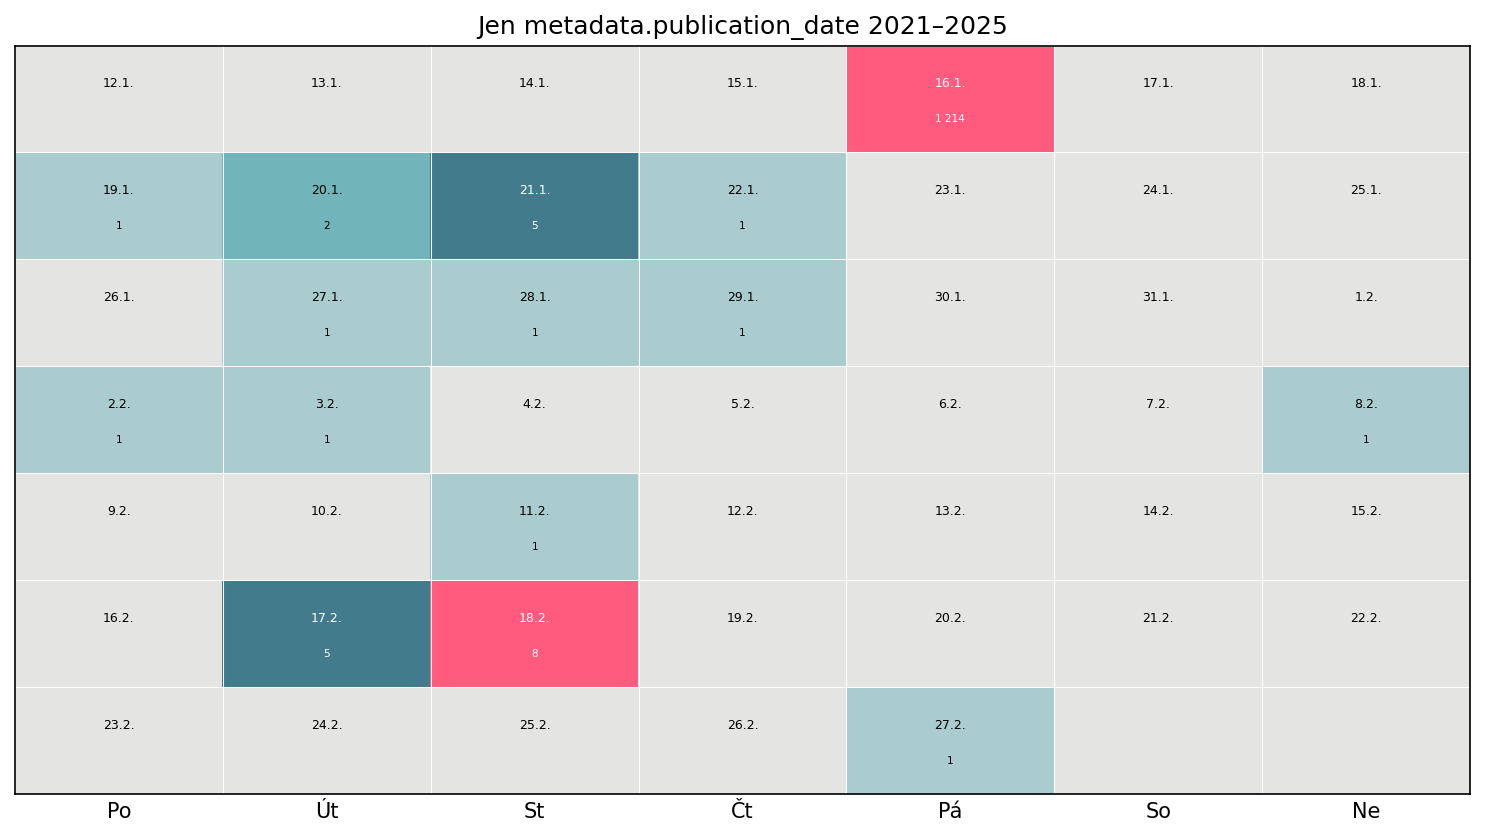
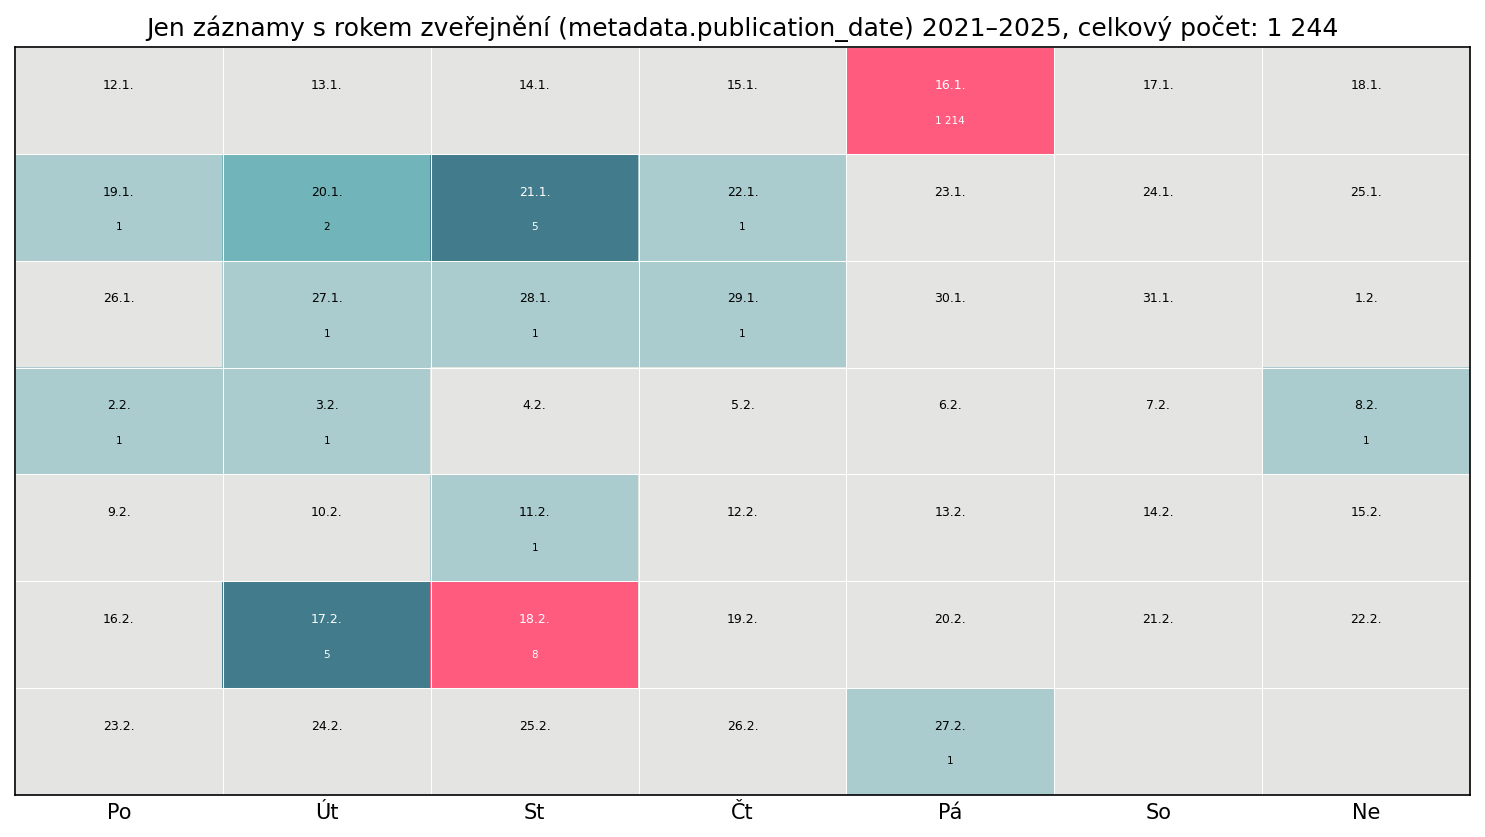
Update HTML output

diff --git a/docs/index.html b/docs/index.html
@@ -157,7 +157,7 @@
       Počty záznamů podle pole <code>created</code>, po dnech a týdnech.
     </p>
     <div class="meta">
-      Generováno: 2026-02-27 22:34:22 UTC<br>
+      Generováno: 2026-02-27 22:53:38 UTC<br>
       Rozsah dat: 2026-01-12 – 2026-02-27<br>
       Textové tabulky: od 2026-01-16
     </div>
@@ -169,7 +169,7 @@
     </div>
 
     <section class="calendar-section">
-  <h2>Všechny záznamy (pole created)</h2>
+  <h2>Všechny záznamy, celkový počet: 2 327</h2>
   <p class="hint">Kliknutím na den se otevře vyhledávání v NMA pro dané datum.</p>
   <div class="calendar-grid">
 <div class="dow">Po</div><div class="dow">Út</div><div class="dow">St</div><div class="dow">Čt</div><div class="dow">Pá</div><div class="dow">So</div><div class="dow">Ne</div>
@@ -179,7 +179,7 @@
 
 
     <section class="calendar-section">
-  <h2>Jen záznamy s metadata.publication_date v letech 2021–2025</h2>
+  <h2>Jen záznamy s rokem zveřejnění (metadata.publication_date) 2021–2025, celkový počet: 1 244</h2>
   <p class="hint">Kliknutím na den se otevře vyhledávání v NMA pro dané datum.</p>
   <div class="calendar-grid">
 <div class="dow">Po</div><div class="dow">Út</div><div class="dow">St</div><div class="dow">Čt</div><div class="dow">Pá</div><div class="dow">So</div><div class="dow">Ne</div>
@@ -191,8 +191,8 @@
     <section class="png-section">
   <h2>Obrázky ke stažení</h2>
   <ul>
-    <li><a href="calendar_created_all.png">PNG: všechny záznamy (created)</a></li>
-    <li><a href="calendar_created_pub_2021_2025.png">PNG: jen metadata.publication_date 2021–2025</a></li>
+      <li><a href="calendar_created_all.png">PNG: všechny záznamy (created)</a></li>
+      <li><a href="calendar_created_pub_2021_2025.png">PNG: jen metadata.publication_date 2021–2025</a></li>
   </ul>
 </section>
 

diff --git a/stats/created_calendar.py b/stats/created_calendar.py
@@ -7,13 +7,11 @@ from collections import Counter
 from datetime import date, datetime, timedelta
 from pathlib import Path
 from typing import Dict, Tuple
-
 from urllib.parse import quote
 
-import matplotlib.pyplot as plt
 import matplotlib.colors as mcolors
+import matplotlib.pyplot as plt
 import numpy as np
-
 
 # EOSC barvy
 EOSC_GREY = "#e4e4e3"
@@ -133,7 +131,6 @@ def compute_scale(
     vmin = min(vals)
     vmax = max(vals)
     if vmin == vmax:
-        # zabránit delení nulou; posunout trochu
         vmin = 0
         vmax = max(vmax, 1)
     return vmin, vmax
@@ -153,7 +150,6 @@ def color_for_value(value: int, vmin: int, vmax: int) -> str:
 def text_color_for_rgb(rgb: Tuple[int, int, int]) -> str:
     """Černý nebo bílý text podle jasu pozadí."""
     r, g, b = rgb
-    # jednoduchý luminance odhad
     luminance = 0.299 * r + 0.587 * g + 0.114 * b
     return "black" if luminance > 140 else "white"
 
@@ -191,20 +187,17 @@ def save_calendar_png(
     fig_height = max(3.0, num_weeks * 0.6 + 1.5)
     fig, ax = plt.subplots(figsize=(10, fig_height))
 
-    im = ax.imshow(values, cmap=EOSC_CMAP, aspect="auto", vmin=vmin, vmax=vmax)
+    ax.imshow(values, cmap=EOSC_CMAP, aspect="auto", vmin=vmin, vmax=vmax)
 
-    # Osy
     ax.set_xticks(range(7))
     ax.set_xticklabels(["Po", "Út", "St", "Čt", "Pá", "So", "Ne"])
     ax.set_yticks([])
 
     ax.set_title(title)
 
-    # Popisky v buňkách
     for week in range(num_weeks):
         for dow in range(7):
             cnt = int(values[week, dow])
-            # pozadí
             color_hex = color_for_value(cnt, vmin, vmax)
             r = int(color_hex[1:3], 16)
             g = int(color_hex[3:5], 16)
@@ -218,7 +211,6 @@ def save_calendar_png(
             if norm > 0.66:
                 text_color = "white"
 
-            # datum
             ax.text(
                 dow,
                 week - 0.15,
@@ -228,7 +220,6 @@ def save_calendar_png(
                 fontsize=6,
                 color=text_color,
             )
-            # počet
             ax.text(
                 dow,
                 week + 0.18,
@@ -239,7 +230,6 @@ def save_calendar_png(
                 color=text_color,
             )
 
-    # mřížka "čtverečků"
     ax.set_xticks(np.arange(-0.5, 7, 1), minor=True)
     ax.set_yticks(np.arange(-0.5, num_weeks, 1), minor=True)
     ax.grid(which="minor", color="white", linewidth=0.5)
@@ -267,7 +257,19 @@ def generate_html(
     a případně odkazy na PNG grafy.
     """
 
-    def section_calendar(title: str, counts: Dict[date, int], filter_query: str | None):
+    def section_calendar(kind: str, counts: Dict[date, int], filter_query: str | None):
+        # součet všech záznamů v dané větvi
+        total = sum(counts.values())
+        if kind == "all":
+            heading = f"Všechny záznamy, celkový počet: {format_int_cz(total)}"
+        elif kind == "pub":
+            heading = (
+                "Jen záznamy s rokem zveřejnění (metadata.publication_date) "
+                f"2021–2025, celkový počet: {format_int_cz(total)}"
+            )
+        else:
+            heading = f"{kind}, celkový počet: {format_int_cz(total)}"
+
         vmin, vmax = compute_scale(counts, start_date, end_date, ignore_for_scale)
 
         days_html = []
@@ -303,7 +305,7 @@ def generate_html(
                 f'style="background-color: {color_hex}; color: {text_color};">'
                 f'<span class="date">{date_label}</span>'
                 f'<span class="count">{format_int_cz(cnt)}</span>'
-                f'</a>'
+                f"</a>"
             )
             current += timedelta(days=1)
 
@@ -313,34 +315,35 @@ def generate_html(
         )
 
         return (
-            f'<section class="calendar-section">\n'
-            f'  <h2>{title}</h2>\n'
-            f'  <p class="hint">Kliknutím na den se otevře vyhledávání v NMA pro dané datum.</p>\n'
-            f'  <div class="calendar-grid">\n'
-            f'{dow_header}\n'
+            '<section class="calendar-section">\n'
+            f"  <h2>{heading}</h2>\n"
+            '  <p class="hint">Kliknutím na den se otevře vyhledávání v NMA pro dané datum.</p>\n'
+            '  <div class="calendar-grid">\n'
+            f"{dow_header}\n"
             f'{"".join(days_html)}\n'
-            f'  </div>\n'
-            f'</section>\n'
+            "  </div>\n"
+            "</section>\n"
         )
 
     updated = datetime.utcnow().strftime("%Y-%m-%d %H:%M:%S UTC")
 
     extra_png_section = ""
-    if png_all or png_pub:
-        items = []
-        if png_all:
-            items.append(
-                f'<li><a href="{png_all}">PNG: všechny záznamy (created)</a></li>'
-            )
-        if png_pub:
-            items.append(
-                f'<li><a href="{png_pub}">PNG: jen metadata.publication_date 2021–2025</a></li>'
-            )
+    png_items = []
+    if png_all:
+        png_items.append(
+            f'<li><a href="{png_all}">PNG: všechny záznamy (created)</a></li>'
+        )
+    if png_pub:
+        png_items.append(
+            f'<li><a href="{png_pub}">PNG: jen metadata.publication_date 2021–2025</a></li>'
+        )
+    if png_items:
+        links_html = "\n      ".join(png_items)
         extra_png_section = (
-            "<section class=\"png-section\">\n"
+            '<section class="png-section">\n'
             "  <h2>Obrázky ke stažení</h2>\n"
             "  <ul>\n"
-            f"    {'\n    '.join(items)}\n"
+            f"      {links_html}\n"
             "  </ul>\n"
             "</section>\n"
         )
@@ -515,11 +518,11 @@ def generate_html(
       <span>méně záznamů → více záznamů</span>
     </div>
 
-    {section_calendar("Všechny záznamy (pole created)", counts_all, None)}
+    {section_calendar("all", counts_all, None)}
 
-    {section_calendar("Jen záznamy s metadata.publication_date v letech 2021–2025",
-                     counts_pub,
-                     "metadata.publication_date:[2021 TO 2025]")}
+    {section_calendar("pub",
+                      counts_pub,
+                      "metadata.publication_date:[2021 TO 2025]")}
 
     {extra_png_section}
 
@@ -640,6 +643,10 @@ def main():
 
     counts_all, counts_pub = collect_counts(input_path, start_date, end_date)
 
+    # součty pro popis
+    total_all = sum(counts_all.values())
+    total_pub = sum(counts_pub.values())
+
     # textové výstupy
     write_summaries(counts_all, counts_pub, summary_from, stats_dir)
 
@@ -652,7 +659,7 @@ def main():
         counts_all,
         start_date,
         end_date,
-        "Všechny záznamy (created)",
+        f"Všechny záznamy, celkový počet: {format_int_cz(total_all)}",
         png_all_path,
         ignore_for_scale=ignore_for_scale,
     )
@@ -660,7 +667,8 @@ def main():
         counts_pub,
         start_date,
         end_date,
-        "Jen metadata.publication_date 2021–2025",
+        "Jen záznamy s rokem zveřejnění (metadata.publication_date) 2021–2025, "
+        f"celkový počet: {format_int_cz(total_pub)}",
         png_pub_path,
         ignore_for_scale=ignore_for_scale,
     )
